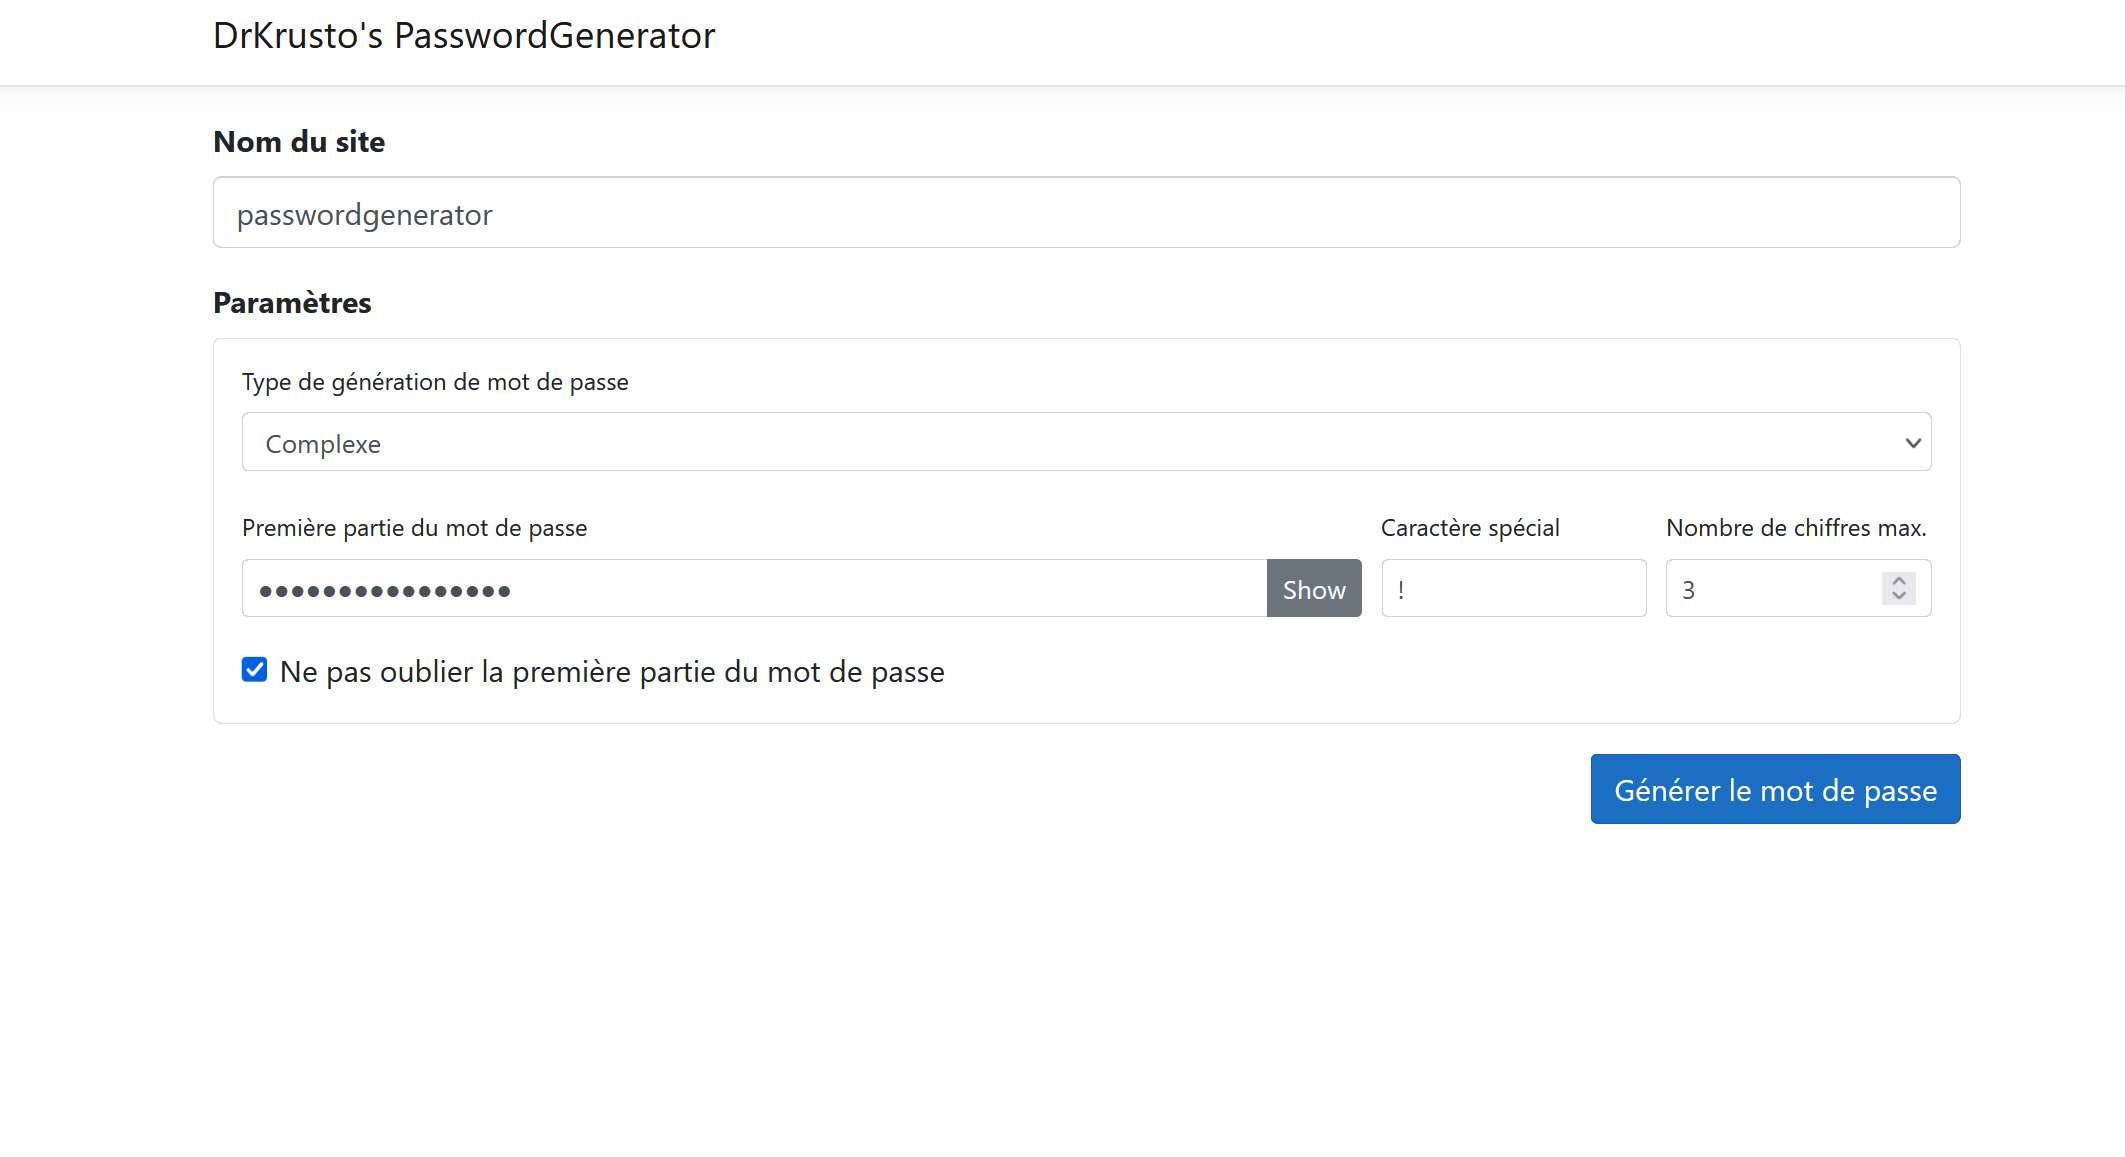
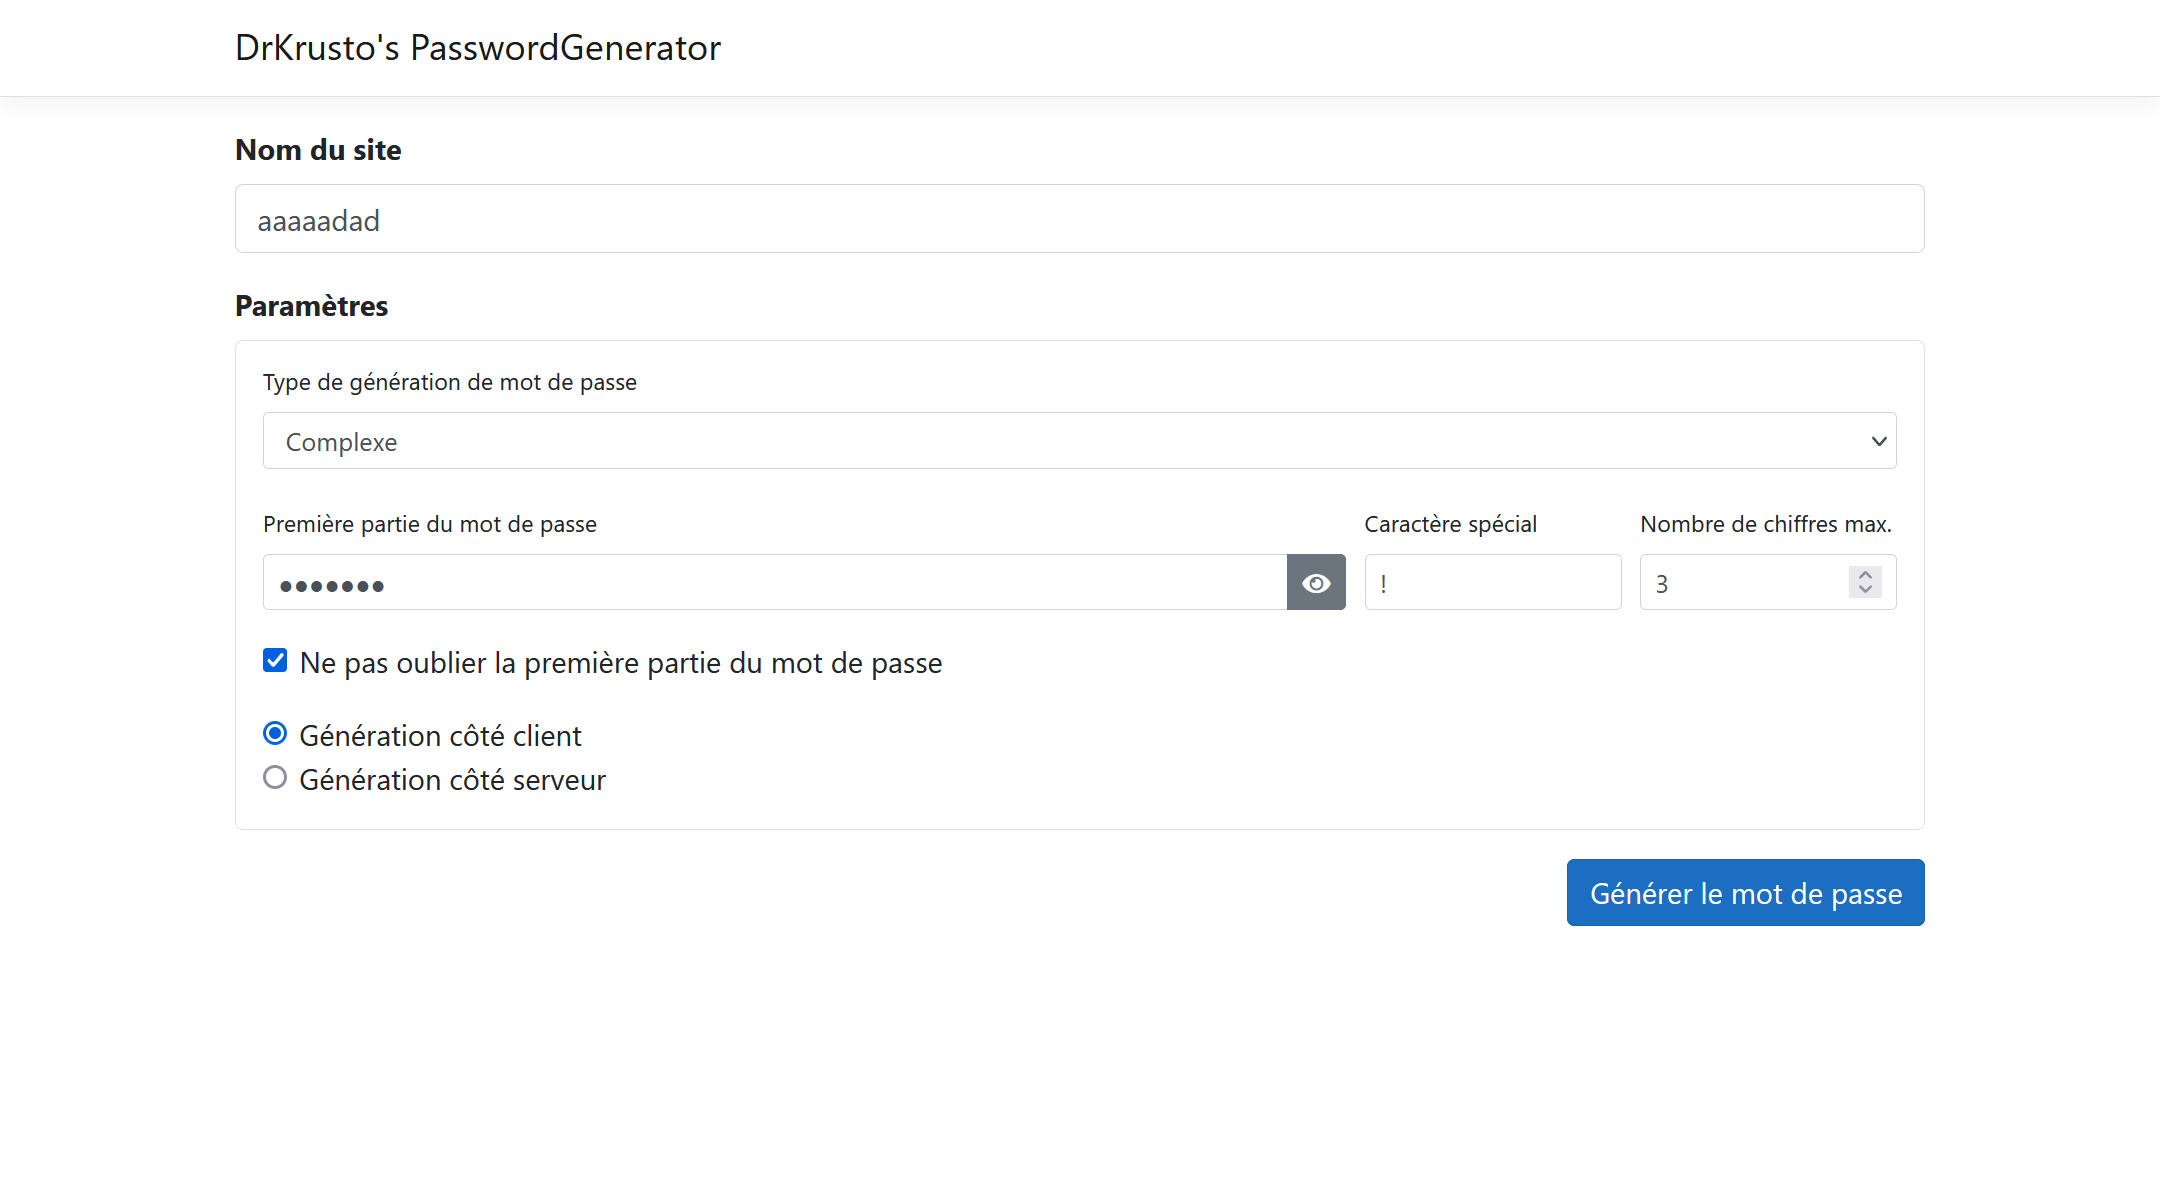
- the user can choose between client-side or server-side generation - updated the website screenshot

diff --git a/WebPasswordGenerator/Controllers/HomeController.cs b/WebPasswordGenerator/Controllers/HomeController.cs
@@ -30,6 +30,159 @@ namespace WebPasswordGenerator.Controllers
             return View();
         }
 
+        [HttpGet]
+        public JsonResult GenerateSimplePassword(string firstHalfOfPassword, string softwareName, string specialChar)
+        {
+            string generatedPassword = firstHalfOfPassword;
+            generatedPassword += TransferLettersToNumbers(softwareName.Substring(0, 3));
+            if (softwareName.Length >= 4)
+                generatedPassword += softwareName[3].ToString().ToUpper();
+            generatedPassword += specialChar;
+            return new JsonResult(new
+            {
+                Password = generatedPassword
+            });
+        }
+
+        [HttpGet]
+        public JsonResult GenerateComplexPassword(string softwareName, string firstHalfOfPassword, string specialChar, int maxAmountOfNumbers)
+        {
+            string generatedPassword = firstHalfOfPassword;
+            string numbersLength = "";
+            string higher = "";
+            if (softwareName.Length > firstHalfOfPassword.Length)
+                for (var i = 0; i < firstHalfOfPassword.Length; i++)
+                {
+                    numbersLength += firstHalfOfPassword[i].ToString() + softwareName[i].ToString();
+                }
+            else
+                for (var i = 0; i < softwareName.Length; i++)
+                {
+                    numbersLength += softwareName[i].ToString() + firstHalfOfPassword[i].ToString();
+                }
+            numbersLength = TransferLettersToNumbers(numbersLength);
+            if (maxAmountOfNumbers < numbersLength.Length)
+                numbersLength = numbersLength.Remove(maxAmountOfNumbers);
+            generatedPassword += numbersLength;
+            generatedPassword += GetMostUsedLetter(softwareName + firstHalfOfPassword);
+            generatedPassword += specialChar;
+            return new JsonResult(new
+            {
+                Password = generatedPassword
+            });
+        }
+
+        public char GetMostUsedLetter(string word)
+        {
+            word = word.ToUpper();
+            Dictionary<char, int> lettersCount = new Dictionary<char, int>();
+            char mostUsedLetter = word[0];
+            foreach (char letter in word)
+            {
+                if (!lettersCount.ContainsKey(letter))
+                    lettersCount.Add(letter, 1);
+                else
+                {
+                    lettersCount[letter]++;
+                    if (lettersCount[letter] > lettersCount[mostUsedLetter])
+                    {
+                        lettersCount[mostUsedLetter] = lettersCount[letter];
+                    }
+                }
+            }
+            return mostUsedLetter;
+        }
+
+        public string TransferLettersToNumbers(string letters)
+        {
+            string numbers = "";
+            foreach (char letter in letters.ToUpper())
+            {
+                switch (letter)
+                {
+                    case 'A':
+                        numbers += "1";
+                        break;
+                    case 'B':
+                        numbers += "2";
+                        break;
+                    case 'C':
+                        numbers += "3";
+                        break;
+                    case 'D':
+                        numbers += "4";
+                        break;
+                    case 'E':
+                        numbers += "5";
+                        break;
+                    case 'F':
+                        numbers += "6";
+                        break;
+                    case 'G':
+                        numbers += "7";
+                        break;
+                    case 'H':
+                        numbers += "8";
+                        break;
+                    case 'I':
+                        numbers += "9";
+                        break;
+                    case 'J':
+                        numbers += "10";
+                        break;
+                    case 'K':
+                        numbers += "11";
+                        break;
+                    case 'L':
+                        numbers += "12";
+                        break;
+                    case 'M':
+                        numbers += "13";
+                        break;
+                    case 'N':
+                        numbers += "14";
+                        break;
+                    case 'O':
+                        numbers += "15";
+                        break;
+                    case 'P':
+                        numbers += "16";
+                        break;
+                    case 'Q':
+                        numbers += "17";
+                        break;
+                    case 'R':
+                        numbers += "18";
+                        break;
+                    case 'S':
+                        numbers += "19";
+                        break;
+                    case 'T':
+                        numbers += "20";
+                        break;
+                    case 'U':
+                        numbers += "21";
+                        break;
+                    case 'V':
+                        numbers += "22";
+                        break;
+                    case 'W':
+                        numbers += "23";
+                        break;
+                    case 'X':
+                        numbers += "24";
+                        break;
+                    case 'Y':
+                        numbers += "25";
+                        break;
+                    case 'Z':
+                        numbers += "26";
+                        break;
+                }
+            }
+            return numbers;
+        }
+
         [HttpPost]
         public void RememberPassword(string cookieValue)
         {
